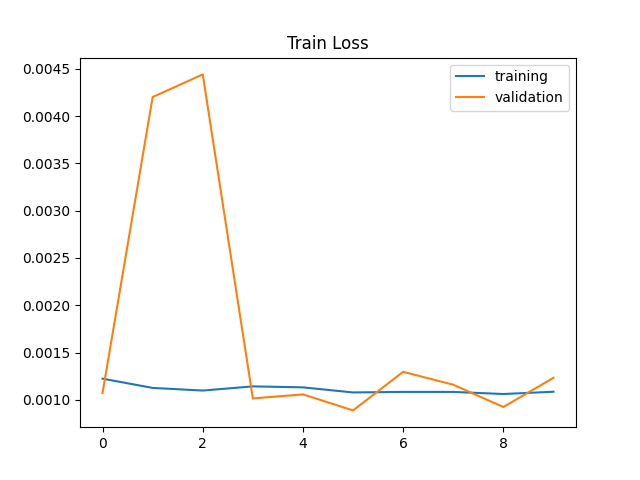
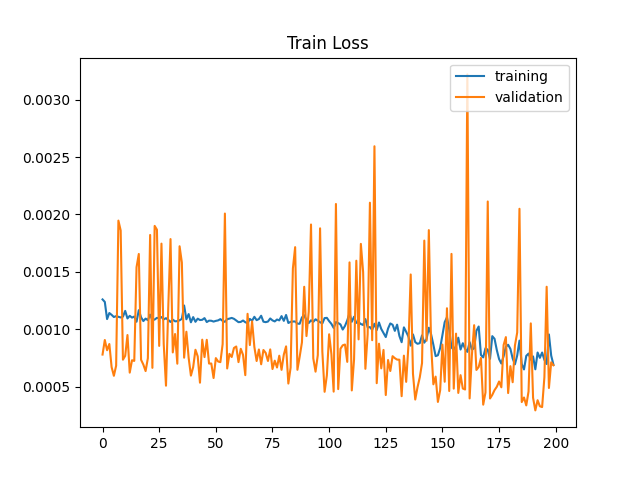
revise train epoch

diff --git a/test.py b/test.py
@@ -9,7 +9,7 @@ from sklearn.preprocessing import MinMaxScaler,normalize
 def test():
     # load model and use weights we saved before.
     model = MyModel()
-    model.load_state_dict(torch.load('0.072model.pth', map_location='cpu'))
+    model.load_state_dict(torch.load('mymodel.pth', map_location='cpu'))
     model.eval()
     # load testing data
     data = pd.read_csv('test.csv', encoding='utf-8')

diff --git a/train.py b/train.py
@@ -33,7 +33,7 @@ def visualize(record,valid_record, title):
 
 
 # learning rate, epoch and batch size. Can change the parameters here.
-def train(lr=0.001, epoch=10, batch_size=32):
+def train(lr=0.001, epoch=200, batch_size=32):
     train_loss_curve = []
     train_wrmse_curve = []
     valid_loss_curve = []
